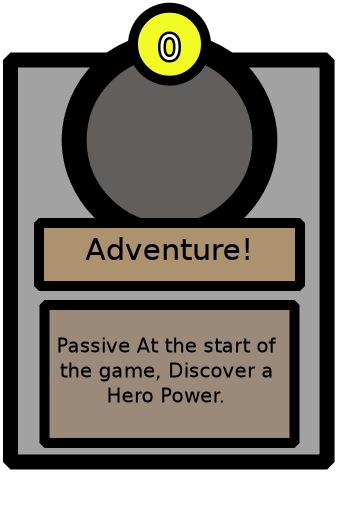
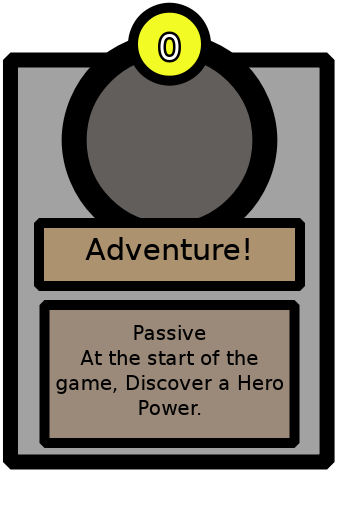
making newlines work in card text

Changed region(s): [[0.1475, 0.6225, 0.8555, 0.83]]

diff --git a/server/generate/generatePhImage.js b/server/generate/generatePhImage.js
@@ -61,23 +61,34 @@ function drawRaces(ctx, races, x, y){
 
 // Function to wrap text
 function wrapText(ctx, text, maxWidth) {
-    const words = text.split(' ');
-    let line = '';
     let lines = [];
+    let currentLine = '';
 
-    words.forEach(word => {
-        const testLine = line + word + ' ';
-        const metrics = ctx.measureText(testLine);
-        const testWidth = metrics.width;
-        if (testWidth > maxWidth) {
-            lines.push(line);
-            line = word + ' ';
-        } else {
-            line = testLine;
-        }
+    // Split text into lines by newline characters
+    const textLines = text.split('\n');
+    textLines.forEach((line, lineIndex) => {
+        const words = line.split(/\s+/); // Split words within each line
+        words.forEach((word, wordIndex) => {
+            const testLine = currentLine + word + ' ';
+            const metrics = ctx.measureText(testLine.trim());
+            const testWidth = metrics.width;
+            if (testWidth > maxWidth && currentLine !== '') {
+                // Push the current line to the lines array
+                lines.push(currentLine.trim());
+                currentLine = word + ' '; // Start a new line with the current word
+            } else {
+                currentLine = testLine; // Continue building the current line
+            }
+
+            // If it's the last word of a line or the last line
+            if (wordIndex === words.length - 1 && (lineIndex !== textLines.length - 1 || line.trim() !== '')) {
+                // Push the current line to the lines array
+                lines.push(currentLine.trim());
+                currentLine = ''; // Start a new line
+            }
+        });
     });
 
-    lines.push(line);
     return lines;
 }
 
@@ -181,7 +192,7 @@ const hpData = {
     name: 'Adventure!',
     cost: 0,
     hideCost: true,
-    text: "Passive At the start of the game, Discover a Hero Power.",
+    text: "Passive\nAt the start of the game, Discover a Hero Power.",
 };
 
 // generateBGsMinion(minionData);
